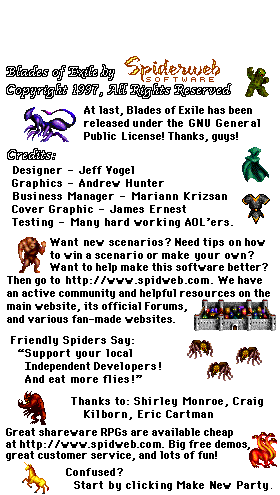
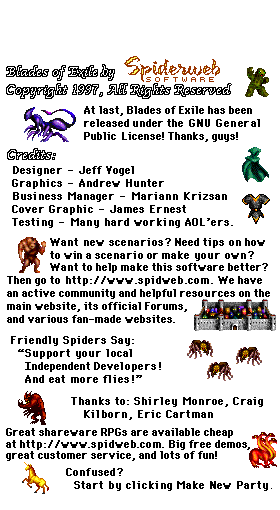
Extended startanim.png

diff --git a/pkg/generate-credits.py b/pkg/generate-credits.py
@@ -9,6 +9,7 @@
 
 from glob import glob
 from os.path import basename, splitext
+from subprocess import run
 
 def get_confirmed_names(filename):
     with open(filename, 'r') as file:
@@ -80,6 +81,21 @@ def main():
 
         with open('rsrc/dialogs/about-boe.xml', 'w') as output_file:
             output_file.write(content)
+
+        # Generate startanim.png using ImageMagick
+        image_lines = ['* OPEN SOURCE CREDITS *', ' ', ' ']
+        def add_heading(heading):
+            image_lines.append(f'- {heading.upper()} -')
+            image_lines.extend(" ")
+            image_lines.extend(name_dict[heading])
+            image_lines.extend(" ")
+
+        add_heading('Programming')
+        add_heading('Graphics')
+        add_heading('Testing')
+        add_heading('Funding')
+
+        run(['pkg/generate-startanim.sh'] + image_lines, input='\n'.join(image_lines), encoding='ascii')
 
 if __name__ == "__main__":
     main()
